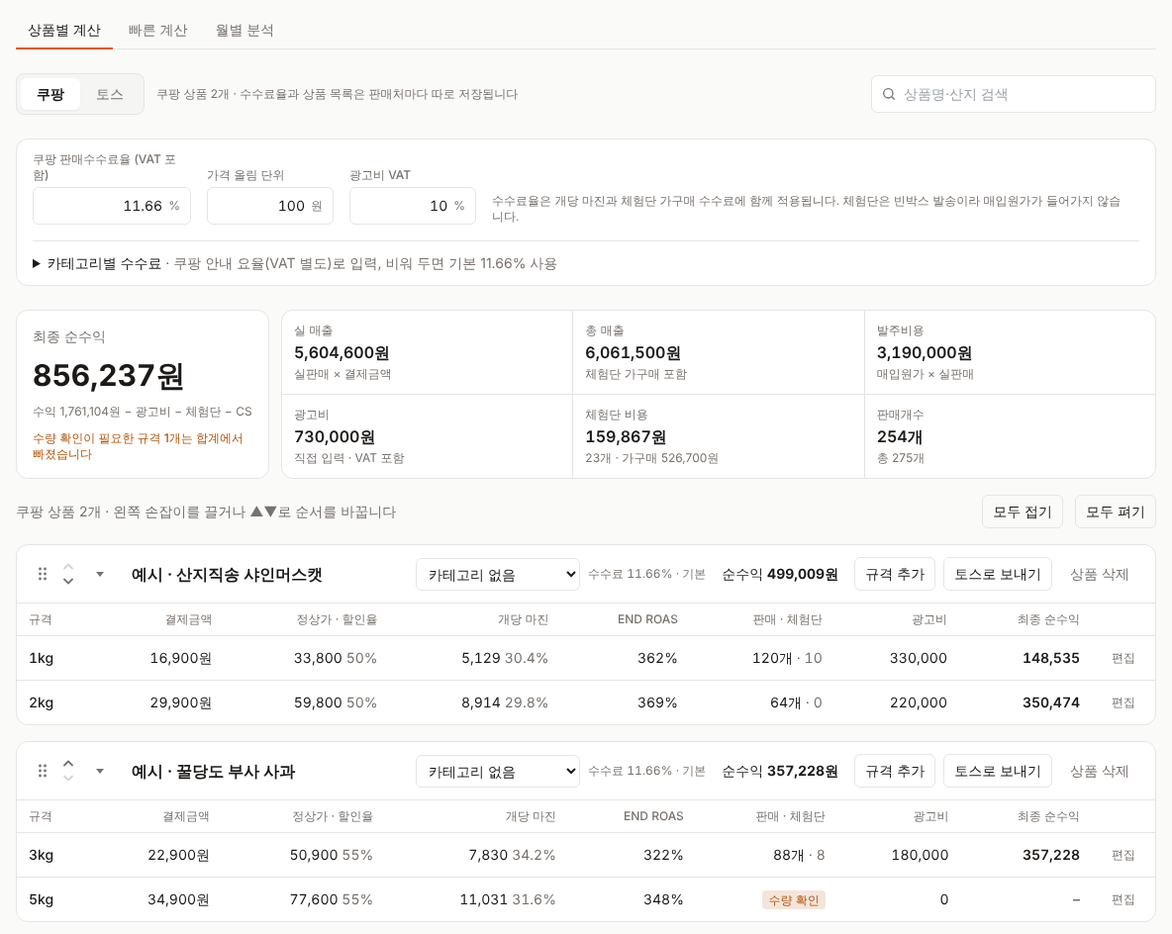
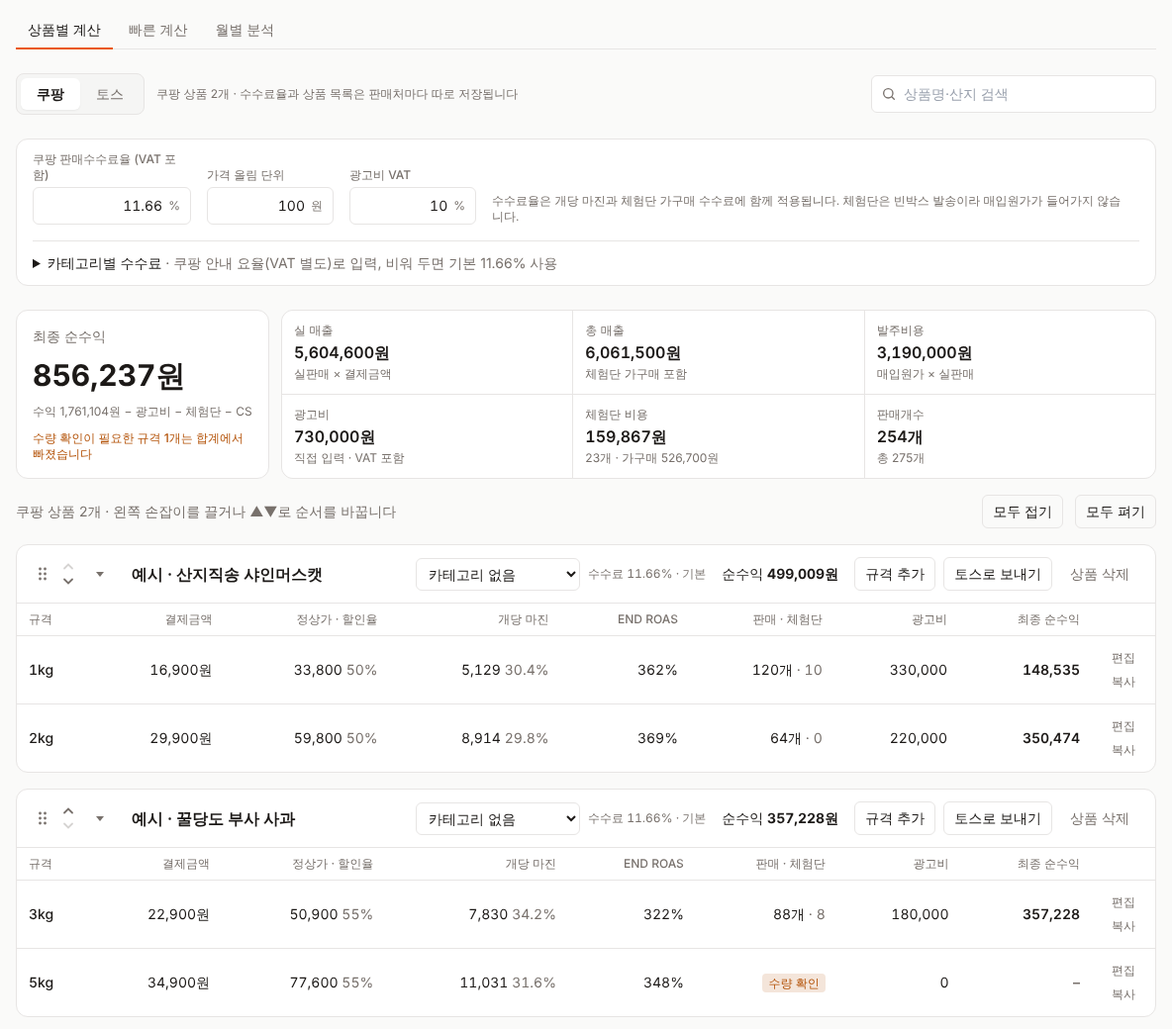
상품 추가 때 상품명 입력, 규격 복사 추가
- 규격 편집 창 맨 위에서 상품명 입력·수정, 상품 추가 시 상품명 칸에 바로 커서
- 이 규격 복사 / 상품 표 행의 복사: 입력값은 그대로, 옵션 ID·실적·가격 변동 기록은 비우고 원본 아래에 추가
- README와 스크린샷 갱신

Claude-Session: https://claude.ai/code/session_01Vrqhj2441wb3p9PaBYYXkv

diff --git a/assets/tailwind.css b/assets/tailwind.css
@@ -1,1 +1,1 @@
-*,:after,:before{--tw-border-spacing-x:0;--tw-border-spacing-y:0;--tw-translate-x:0;--tw-translate-y:0;--tw-rotate:0;--tw-skew-x:0;--tw-skew-y:0;--tw-scale-x:1;--tw-scale-y:1;--tw-pan-x: ;--tw-pan-y: ;--tw-pinch-zoom: ;--tw-scroll-snap-strictness:proximity;--tw-gradient-from-position: ;--tw-gradient-via-position: ;--tw-gradient-to-position: ;--tw-ordinal: ;--tw-slashed-zero: ;--tw-numeric-figure: ;--tw-numeric-spacing: ;--tw-numeric-fraction: ;--tw-ring-inset: ;--tw-ring-offset-width:0px;--tw-ring-offset-color:#fff;--tw-ring-color:rgba(59,130,246,.5);--tw-ring-offset-shadow:0 0 #0000;--tw-ring-shadow:0 0 #0000;--tw-shadow:0 0 #0000;--tw-shadow-colored:0 0 #0000;--tw-blur: ;--tw-brightness: ;--tw-contrast: ;--tw-grayscale: ;--tw-hue-rotate: ;--tw-invert: ;--tw-saturate: ;--tw-sepia: ;--tw-drop-shadow: ;--tw-backdrop-blur: ;--tw-backdrop-brightness: ;--tw-backdrop-contrast: ;--tw-backdrop-grayscale: ;--tw-backdrop-hue-rotate: ;--tw-backdrop-invert: ;--tw-backdrop-opacity: ;--tw-backdrop-saturate: ;--tw-backdrop-sepia: ;--tw-contain-size: ;--tw-contain-layout: ;--tw-contain-paint: ;--tw-contain-style: }::backdrop{--tw-border-spacing-x:0;--tw-border-spacing-y:0;--tw-translate-x:0;--tw-translate-y:0;--tw-rotate:0;--tw-skew-x:0;--tw-skew-y:0;--tw-scale-x:1;--tw-scale-y:1;--tw-pan-x: ;--tw-pan-y: ;--tw-pinch-zoom: ;--tw-scroll-snap-strictness:proximity;--tw-gradient-from-position: ;--tw-gradient-via-position: ;--tw-gradient-to-position: ;--tw-ordinal: ;--tw-slashed-zero: ;--tw-numeric-figure: ;--tw-numeric-spacing: ;--tw-numeric-fraction: ;--tw-ring-inset: ;--tw-ring-offset-width:0px;--tw-ring-offset-color:#fff;--tw-ring-color:rgba(59,130,246,.5);--tw-ring-offset-shadow:0 0 #0000;--tw-ring-shadow:0 0 #0000;--tw-shadow:0 0 #0000;--tw-shadow-colored:0 0 #0000;--tw-blur: ;--tw-brightness: ;--tw-contrast: ;--tw-grayscale: ;--tw-hue-rotate: ;--tw-invert: ;--tw-saturate: ;--tw-sepia: ;--tw-drop-shadow: ;--tw-backdrop-blur: ;--tw-backdrop-brightness: ;--tw-backdrop-contrast: ;--tw-backdrop-grayscale: ;--tw-backdrop-hue-rotate: ;--tw-backdrop-invert: ;--tw-backdrop-opacity: ;--tw-backdrop-saturate: ;--tw-backdrop-sepia: ;--tw-contain-size: ;--tw-contain-layout: ;--tw-contain-paint: ;--tw-contain-style: }/*! tailwindcss v3.4.17 | MIT License | https://tailwindcss.com*/*,:after,:before{box-sizing:border-box;border:0 solid #e5e7eb}:after,:before{--tw-content:""}:host,html{line-height:1.5;-webkit-text-size-adjust:100%;-moz-tab-size:4;-o-tab-size:4;tab-size:4;font-family:var(--font-sans);font-feature-settings:normal;font-variation-settings:normal;-webkit-tap-highlight-color:transparent}body{margin:0;line-height:inherit}hr{height:0;color:inherit;border-top-width:1px}abbr:where([title]){-webkit-text-decoration:underline dotted;text-decoration:underline dotted}h1,h2,h3,h4,h5,h6{font-size:inherit;font-weight:inherit}a{color:inherit;text-decoration:inherit}b,strong{font-weight:bolder}code,kbd,pre,samp{font-family:ui-monospace,SFMono-Regular,Menlo,Monaco,Consolas,Liberation Mono,Courier New,monospace;font-feature-settings:normal;font-variation-settings:normal;font-size:1em}small{font-size:80%}sub,sup{font-size:75%;line-height:0;position:relative;vertical-align:baseline}sub{bottom:-.25em}sup{top:-.5em}table{text-indent:0;border-color:inherit;border-collapse:collapse}button,input,optgroup,select,textarea{font-family:inherit;font-feature-settings:inherit;font-variation-settings:inherit;font-size:100%;font-weight:inherit;line-height:inherit;letter-spacing:inherit;color:inherit;margin:0;padding:0}button,select{text-transform:none}button,input:where([type=button]),input:where([type=reset]),input:where([type=submit]){-webkit-appearance:button;background-color:transparent;background-image:none}:-moz-focusring{outline:auto}:-moz-ui-invalid{box-shadow:none}progress{vertical-align:baseline}::-webkit-inner-spin-button,::-webkit-outer-spin-button{height:auto}[type=search]{-webkit-appearance:textfield;outline-offset:-2px}::-webkit-search-decoration{-webkit-appearance:none}::-webkit-file-upload-button{-webkit-appearance:button;font:inherit}summary{display:list-item}blockquote,dd,dl,figure,h1,h2,h3,h4,h5,h6,hr,p,pre{margin:0}fieldset{margin:0}fieldset,legend{padding:0}menu,ol,ul{list-style:none;margin:0;padding:0}dialog{padding:0}textarea{resize:vertical}input::-moz-placeholder,textarea::-moz-placeholder{opacity:1;color:#9ca3af}input::placeholder,textarea::placeholder{opacity:1;color:#9ca3af}[role=button],button{cursor:pointer}:disabled{cursor:default}audio,canvas,embed,iframe,img,object,svg,video{display:block;vertical-align:middle}img,video{max-width:100%;height:auto}[hidden]:where(:not([hidden=until-found])){display:none}.sr-only{position:absolute;width:1px;height:1px;padding:0;margin:-1px;overflow:hidden;clip:rect(0,0,0,0);white-space:nowrap;border-width:0}.pointer-events-none{pointer-events:none}.fixed{position:fixed}.absolute{position:absolute}.relative{position:relative}.sticky{position:sticky}.inset-0{inset:0}.inset-x-0{left:0;right:0}.inset-y-0{top:0;bottom:0}.left-0{left:0}.left-1{left:.25rem}.left-2\.5{left:.625rem}.right-0{right:0}.right-1\.5{right:.375rem}.top-0{top:0}.top-1\/2{top:50%}.z-dialog{z-index:50}.z-drawer{z-index:40}.z-header{z-index:10}.col-span-2{grid-column:span 2/span 2}.m-auto{margin:auto}.-mx-1{margin-left:-.25rem;margin-right:-.25rem}.mx-2{margin-left:.5rem;margin-right:.5rem}.mx-auto{margin-left:auto;margin-right:auto}.-mb-px{margin-bottom:-1px}.mb-1{margin-bottom:.25rem}.mb-2{margin-bottom:.5rem}.ml-auto{margin-left:auto}.mt-0\.5{margin-top:.125rem}.mt-1{margin-top:.25rem}.mt-2{margin-top:.5rem}.mt-3{margin-top:.75rem}.flex{display:flex}.inline-flex{display:inline-flex}.table{display:table}.grid{display:grid}.hidden{display:none}.size-3{width:.75rem;height:.75rem}.size-4{width:1rem;height:1rem}.size-8{width:2rem;height:2rem}.size-9{width:2.25rem;height:2.25rem}.h-10{height:2.5rem}.h-2{height:.5rem}.h-4{height:1rem}.h-8{height:2rem}.h-full{height:100%}.max-h-\[calc\(100dvh-2rem\)\]{max-height:calc(100dvh - 2rem)}.min-h-dvh{min-height:100dvh}.w-0\.5{width:.125rem}.w-1{width:.25rem}.w-14{width:3.5rem}.w-2\.5{width:.625rem}.w-20{width:5rem}.w-28{width:7rem}.w-3{width:.75rem}.w-32{width:8rem}.w-36{width:9rem}.w-40{width:10rem}.w-5{width:1.25rem}.w-52{width:13rem}.w-56{width:14rem}.w-6{width:1.5rem}.w-\[calc\(100\%-2rem\)\]{width:calc(100% - 2rem)}.w-full{width:100%}.w-px{width:1px}.min-w-0{min-width:0}.min-w-\[560px\]{min-width:560px}.min-w-\[640px\]{min-width:640px}.min-w-\[760px\]{min-width:760px}.min-w-\[820px\]{min-width:820px}.min-w-\[980px\]{min-width:980px}.max-w-4xl{max-width:56rem}.max-w-6xl{max-width:72rem}.max-w-\[10rem\]{max-width:10rem}.max-w-\[14rem\]{max-width:14rem}.max-w-\[20rem\]{max-width:20rem}.max-w-full{max-width:100%}.max-w-md{max-width:28rem}.max-w-sm{max-width:24rem}.flex-1{flex:1 1 0%}.shrink-0{flex-shrink:0}.basis-40{flex-basis:10rem}.basis-56{flex-basis:14rem}.basis-60{flex-basis:15rem}.basis-64{flex-basis:16rem}.basis-72{flex-basis:18rem}.basis-full{flex-basis:100%}.-translate-x-1\/2{--tw-translate-x:-50%}.-translate-x-1\/2,.-translate-y-1\/2{transform:translate(var(--tw-translate-x),var(--tw-translate-y)) rotate(var(--tw-rotate)) skewX(var(--tw-skew-x)) skewY(var(--tw-skew-y)) scaleX(var(--tw-scale-x)) scaleY(var(--tw-scale-y))}.-translate-y-1\/2{--tw-translate-y:-50%}.rotate-90{--tw-rotate:90deg;transform:translate(var(--tw-translate-x),var(--tw-translate-y)) rotate(var(--tw-rotate)) skewX(var(--tw-skew-x)) skewY(var(--tw-skew-y)) scaleX(var(--tw-scale-x)) scaleY(var(--tw-scale-y))}.cursor-col-resize{cursor:col-resize}.cursor-default{cursor:default}.cursor-grab{cursor:grab}.cursor-pointer{cursor:pointer}.list-disc{list-style-type:disc}.grid-cols-2{grid-template-columns:repeat(2,minmax(0,1fr))}.grid-cols-\[minmax\(0\2c 1fr\)_auto\]{grid-template-columns:minmax(0,1fr) auto}.grid-cols-\[repeat\(auto-fill\2c minmax\(8\.5rem\2c 1fr\)\)\]{grid-template-columns:repeat(auto-fill,minmax(8.5rem,1fr))}.flex-col{flex-direction:column}.flex-wrap{flex-wrap:wrap}.items-start{align-items:flex-start}.items-end{align-items:flex-end}.items-center{align-items:center}.items-baseline{align-items:baseline}.justify-end{justify-content:flex-end}.justify-center{justify-content:center}.justify-between{justify-content:space-between}.gap-0\.5{gap:.125rem}.gap-1{gap:.25rem}.gap-1\.5{gap:.375rem}.gap-2{gap:.5rem}.gap-3{gap:.75rem}.gap-4{gap:1rem}.gap-6{gap:1.5rem}.gap-px{gap:1px}.gap-x-2{-moz-column-gap:.5rem;column-gap:.5rem}.gap-x-3{-moz-column-gap:.75rem;column-gap:.75rem}.gap-x-4{-moz-column-gap:1rem;column-gap:1rem}.gap-x-6{-moz-column-gap:1.5rem;column-gap:1.5rem}.gap-y-1{row-gap:.25rem}.gap-y-2{row-gap:.5rem}.gap-y-3{row-gap:.75rem}.divide-y>:not([hidden])~:not([hidden]){--tw-divide-y-reverse:0;border-top-width:calc(1px*(1 - var(--tw-divide-y-reverse)));border-bottom-width:calc(1px*var(--tw-divide-y-reverse))}.divide-line>:not([hidden])~:not([hidden]){--tw-divide-opacity:1;border-color:rgb(var(--line)/var(--tw-divide-opacity,1))}.self-start{align-self:flex-start}.overflow-hidden{overflow:hidden}.overflow-x-auto{overflow-x:auto}.overflow-y-auto{overflow-y:auto}.truncate{overflow:hidden;text-overflow:ellipsis}.truncate,.whitespace-nowrap{white-space:nowrap}.whitespace-pre-line{white-space:pre-line}.text-balance{text-wrap:balance}.text-pretty{text-wrap:pretty}.rounded{border-radius:.25rem}.rounded-full{border-radius:9999px}.rounded-lg{border-radius:.5rem}.rounded-md{border-radius:.375rem}.rounded-xl{border-radius:.75rem}.rounded-b{border-bottom-right-radius:.25rem;border-bottom-left-radius:.25rem}.rounded-t{border-top-left-radius:.25rem;border-top-right-radius:.25rem}.border{border-width:1px}.border-2{border-width:2px}.border-b{border-bottom-width:1px}.border-b-2{border-bottom-width:2px}.border-l{border-left-width:1px}.border-l-2{border-left-width:2px}.border-t{border-top-width:1px}.border-dashed{border-style:dashed}.border-accent{--tw-border-opacity:1;border-color:rgb(var(--accent)/var(--tw-border-opacity,1))}.border-accent\/40{border-color:rgb(var(--accent)/.4)}.border-accent\/50{border-color:rgb(var(--accent)/.5)}.border-current{border-color:currentColor}.border-fg\/40{border-color:rgb(var(--fg)/.4)}.border-line{--tw-border-opacity:1;border-color:rgb(var(--line)/var(--tw-border-opacity,1))}.border-neg{--tw-border-opacity:1;border-color:rgb(var(--neg)/var(--tw-border-opacity,1))}.border-surface{--tw-border-opacity:1;border-color:rgb(var(--surface)/var(--tw-border-opacity,1))}.border-transparent{border-color:transparent}.border-warn{--tw-border-opacity:1;border-color:rgb(var(--warn)/var(--tw-border-opacity,1))}.border-warn\/40{border-color:rgb(var(--warn)/.4)}.bg-accent{--tw-bg-opacity:1;background-color:rgb(var(--accent)/var(--tw-bg-opacity,1))}.bg-accent\/10{background-color:rgb(var(--accent)/.1)}.bg-accent\/15{background-color:rgb(var(--accent)/.15)}.bg-accent\/5{background-color:rgb(var(--accent)/.05)}.bg-black\/40{background-color:rgba(0,0,0,.4)}.bg-fg{background-color:rgb(var(--fg)/var(--tw-bg-opacity,1))}.bg-fg,.bg-line{--tw-bg-opacity:1}.bg-line{background-color:rgb(var(--line)/var(--tw-bg-opacity,1))}.bg-muted{--tw-bg-opacity:1;background-color:rgb(var(--muted)/var(--tw-bg-opacity,1))}.bg-neg{--tw-bg-opacity:1;background-color:rgb(var(--neg)/var(--tw-bg-opacity,1))}.bg-neg\/10{background-color:rgb(var(--neg)/.1)}.bg-pos\/10{background-color:rgb(var(--pos)/.1)}.bg-pos\/15{background-color:rgb(var(--pos)/.15)}.bg-soft{--tw-bg-opacity:1;background-color:rgb(var(--soft)/var(--tw-bg-opacity,1))}.bg-soft\/60{background-color:rgb(var(--soft)/.6)}.bg-surface{--tw-bg-opacity:1;background-color:rgb(var(--surface)/var(--tw-bg-opacity,1))}.bg-transparent{background-color:transparent}.bg-warn\/10{background-color:rgb(var(--warn)/.1)}.bg-warn\/15{background-color:rgb(var(--warn)/.15)}.p-0{padding:0}.p-1{padding:.25rem}.p-3{padding:.75rem}.p-4{padding:1rem}.p-5{padding:1.25rem}.px-1{padding-left:.25rem;padding-right:.25rem}.px-1\.5{padding-left:.375rem;padding-right:.375rem}.px-2{padding-left:.5rem;padding-right:.5rem}.px-2\.5{padding-left:.625rem;padding-right:.625rem}.px-3{padding-left:.75rem;padding-right:.75rem}.px-4{padding-left:1rem;padding-right:1rem}.px-5{padding-left:1.25rem;padding-right:1.25rem}.px-px{padding-left:1px;padding-right:1px}.py-0\.5{padding-top:.125rem;padding-bottom:.125rem}.py-1{padding-top:.25rem;padding-bottom:.25rem}.py-1\.5{padding-top:.375rem;padding-bottom:.375rem}.py-10{padding-top:2.5rem;padding-bottom:2.5rem}.py-12{padding-top:3rem;padding-bottom:3rem}.py-2{padding-top:.5rem;padding-bottom:.5rem}.py-3{padding-top:.75rem;padding-bottom:.75rem}.py-4{padding-top:1rem;padding-bottom:1rem}.py-6{padding-top:1.5rem;padding-bottom:1.5rem}.pb-2{padding-bottom:.5rem}.pl-1\.5{padding-left:.375rem}.pl-2{padding-left:.5rem}.pl-5{padding-left:1.25rem}.pl-8{padding-left:2rem}.pr-1{padding-right:.25rem}.pr-8{padding-right:2rem}.pt-3{padding-top:.75rem}.pt-4{padding-top:1rem}.pt-5{padding-top:1.25rem}.text-left{text-align:left}.text-center{text-align:center}.text-right{text-align:right}.align-top{vertical-align:top}.text-3xl{font-size:1.875rem;line-height:2.25rem}.text-\[11px\]{font-size:11px}.text-base{font-size:1rem;line-height:1.5rem}.text-lg{font-size:1.125rem;line-height:1.75rem}.text-sm{font-size:.875rem;line-height:1.25rem}.text-xs{font-size:.75rem;line-height:1rem}.font-bold{font-weight:700}.font-medium{font-weight:500}.font-normal{font-weight:400}.font-semibold{font-weight:600}.tabular-nums{--tw-numeric-spacing:tabular-nums;font-variant-numeric:var(--tw-ordinal) var(--tw-slashed-zero) var(--tw-numeric-figure) var(--tw-numeric-spacing) var(--tw-numeric-fraction)}.text-accent{--tw-text-opacity:1;color:rgb(var(--accent)/var(--tw-text-opacity,1))}.text-accent-fg{--tw-text-opacity:1;color:rgb(var(--accent-fg)/var(--tw-text-opacity,1))}.text-fg{--tw-text-opacity:1;color:rgb(var(--fg)/var(--tw-text-opacity,1))}.text-muted{--tw-text-opacity:1;color:rgb(var(--muted)/var(--tw-text-opacity,1))}.text-neg{--tw-text-opacity:1;color:rgb(var(--neg)/var(--tw-text-opacity,1))}.text-pos{--tw-text-opacity:1;color:rgb(var(--pos)/var(--tw-text-opacity,1))}.text-warn{--tw-text-opacity:1;color:rgb(var(--warn)/var(--tw-text-opacity,1))}.text-white{--tw-text-opacity:1;color:rgb(255 255 255/var(--tw-text-opacity,1))}.underline{text-decoration-line:underline}.accent-\[rgb\(var\(--accent\)\)\]{accent-color:rgb(var(--accent))}.opacity-50{opacity:.5}.shadow-sm{--tw-shadow:0 1px 2px 0 rgba(0,0,0,.05);--tw-shadow-colored:0 1px 2px 0 var(--tw-shadow-color)}.shadow-sm,.shadow-xl{box-shadow:var(--tw-ring-offset-shadow,0 0 #0000),var(--tw-ring-shadow,0 0 #0000),var(--tw-shadow)}.shadow-xl{--tw-shadow:0 20px 25px -5px rgba(0,0,0,.1),0 8px 10px -6px rgba(0,0,0,.1);--tw-shadow-colored:0 20px 25px -5px var(--tw-shadow-color),0 8px 10px -6px var(--tw-shadow-color)}.outline-none{outline:2px solid transparent;outline-offset:2px}.outline{outline-style:solid}.ring-2{--tw-ring-offset-shadow:var(--tw-ring-inset) 0 0 0 var(--tw-ring-offset-width) var(--tw-ring-offset-color);--tw-ring-shadow:var(--tw-ring-inset) 0 0 0 calc(2px + var(--tw-ring-offset-width)) var(--tw-ring-color);box-shadow:var(--tw-ring-offset-shadow),var(--tw-ring-shadow),var(--tw-shadow,0 0 #0000)}.ring-accent\/30{--tw-ring-color:rgb(var(--accent)/0.3)}.filter{filter:var(--tw-blur) var(--tw-brightness) var(--tw-contrast) var(--tw-grayscale) var(--tw-hue-rotate) var(--tw-invert) var(--tw-saturate) var(--tw-sepia) var(--tw-drop-shadow)}.first\:border-t-0:first-child{border-top-width:0}.focus-within\:border-accent:focus-within{--tw-border-opacity:1;border-color:rgb(var(--accent)/var(--tw-border-opacity,1))}.hover\:bg-accent\/10:hover{background-color:rgb(var(--accent)/.1)}.hover\:bg-accent\/90:hover{background-color:rgb(var(--accent)/.9)}.hover\:bg-line:hover{--tw-bg-opacity:1;background-color:rgb(var(--line)/var(--tw-bg-opacity,1))}.hover\:bg-neg\/90:hover{background-color:rgb(var(--neg)/.9)}.hover\:bg-soft:hover{--tw-bg-opacity:1;background-color:rgb(var(--soft)/var(--tw-bg-opacity,1))}.hover\:bg-warn\/15:hover{background-color:rgb(var(--warn)/.15)}.hover\:text-accent:hover{--tw-text-opacity:1;color:rgb(var(--accent)/var(--tw-text-opacity,1))}.hover\:text-fg:hover{--tw-text-opacity:1;color:rgb(var(--fg)/var(--tw-text-opacity,1))}.hover\:text-neg:hover{--tw-text-opacity:1;color:rgb(var(--neg)/var(--tw-text-opacity,1))}.focus\:border-accent:focus{--tw-border-opacity:1;border-color:rgb(var(--accent)/var(--tw-border-opacity,1))}.focus\:bg-soft:focus{--tw-bg-opacity:1;background-color:rgb(var(--soft)/var(--tw-bg-opacity,1))}.active\:cursor-grabbing:active{cursor:grabbing}.disabled\:border-line:disabled{--tw-border-opacity:1;border-color:rgb(var(--line)/var(--tw-border-opacity,1))}.disabled\:bg-transparent:disabled{background-color:transparent}.disabled\:text-muted:disabled{--tw-text-opacity:1;color:rgb(var(--muted)/var(--tw-text-opacity,1))}.disabled\:opacity-30:disabled{opacity:.3}.disabled\:opacity-50:disabled{opacity:.5}.group:hover .group-hover\:bg-accent{--tw-bg-opacity:1;background-color:rgb(var(--accent)/var(--tw-bg-opacity,1))}.group:focus-visible .group-focus-visible\:bg-accent{--tw-bg-opacity:1;background-color:rgb(var(--accent)/var(--tw-bg-opacity,1))}@media (min-width:640px){.sm\:col-span-1{grid-column:span 1/span 1}.sm\:w-72{width:18rem}.sm\:grid-cols-3{grid-template-columns:repeat(3,minmax(0,1fr))}.sm\:grid-cols-4{grid-template-columns:repeat(4,minmax(0,1fr))}}@media (min-width:768px){.md\:col-span-2{grid-column:span 2/span 2}.md\:grid-cols-2{grid-template-columns:repeat(2,minmax(0,1fr))}.md\:grid-cols-\[minmax\(0\2c 1fr\)_minmax\(0\2c 20rem\)\]{grid-template-columns:minmax(0,1fr) minmax(0,20rem)}}@media (min-width:1024px){.lg\:sticky{position:sticky}.lg\:top-6{top:1.5rem}.lg\:z-auto{z-index:auto}.lg\:my-6{margin-top:1.5rem;margin-bottom:1.5rem}.lg\:block{display:block}.lg\:hidden{display:none}.lg\:h-\[calc\(100dvh-3rem\)\]{height:calc(100dvh - 3rem)}.lg\:w-\[var\(--side-w\)\]{width:var(--side-w)}.lg\:max-w-\[var\(--group-max\)\]{max-width:var(--group-max)}.lg\:max-w-none{max-width:none}.lg\:shrink-0{flex-shrink:0}.lg\:grid-cols-6{grid-template-columns:repeat(6,minmax(0,1fr))}.lg\:grid-cols-\[minmax\(0\2c 16rem\)_minmax\(0\2c 1fr\)\]{grid-template-columns:minmax(0,16rem) minmax(0,1fr)}.lg\:overflow-hidden{overflow:hidden}.lg\:rounded-xl{border-radius:.75rem}.lg\:border{border-width:1px}.lg\:shadow-sm{--tw-shadow:0 1px 2px 0 rgba(0,0,0,.05);--tw-shadow-colored:0 1px 2px 0 var(--tw-shadow-color);box-shadow:var(--tw-ring-offset-shadow,0 0 #0000),var(--tw-ring-shadow,0 0 #0000),var(--tw-shadow)}}.\[\&\>td\]\:px-2>td{padding-left:.5rem;padding-right:.5rem}.\[\&\>td\]\:px-3>td{padding-left:.75rem;padding-right:.75rem}.\[\&\>td\]\:px-4>td{padding-left:1rem;padding-right:1rem}.\[\&\>td\]\:py-2>td{padding-top:.5rem;padding-bottom:.5rem}.\[\&\>td\]\:py-2\.5>td{padding-top:.625rem;padding-bottom:.625rem}.\[\&\>th\]\:px-2>th{padding-left:.5rem;padding-right:.5rem}.\[\&\>th\]\:px-3>th{padding-left:.75rem;padding-right:.75rem}.\[\&\>th\]\:py-2>th{padding-top:.5rem;padding-bottom:.5rem}.\[\&\>th\]\:font-medium>th{font-weight:500}
+*,:after,:before{--tw-border-spacing-x:0;--tw-border-spacing-y:0;--tw-translate-x:0;--tw-translate-y:0;--tw-rotate:0;--tw-skew-x:0;--tw-skew-y:0;--tw-scale-x:1;--tw-scale-y:1;--tw-pan-x: ;--tw-pan-y: ;--tw-pinch-zoom: ;--tw-scroll-snap-strictness:proximity;--tw-gradient-from-position: ;--tw-gradient-via-position: ;--tw-gradient-to-position: ;--tw-ordinal: ;--tw-slashed-zero: ;--tw-numeric-figure: ;--tw-numeric-spacing: ;--tw-numeric-fraction: ;--tw-ring-inset: ;--tw-ring-offset-width:0px;--tw-ring-offset-color:#fff;--tw-ring-color:rgba(59,130,246,.5);--tw-ring-offset-shadow:0 0 #0000;--tw-ring-shadow:0 0 #0000;--tw-shadow:0 0 #0000;--tw-shadow-colored:0 0 #0000;--tw-blur: ;--tw-brightness: ;--tw-contrast: ;--tw-grayscale: ;--tw-hue-rotate: ;--tw-invert: ;--tw-saturate: ;--tw-sepia: ;--tw-drop-shadow: ;--tw-backdrop-blur: ;--tw-backdrop-brightness: ;--tw-backdrop-contrast: ;--tw-backdrop-grayscale: ;--tw-backdrop-hue-rotate: ;--tw-backdrop-invert: ;--tw-backdrop-opacity: ;--tw-backdrop-saturate: ;--tw-backdrop-sepia: ;--tw-contain-size: ;--tw-contain-layout: ;--tw-contain-paint: ;--tw-contain-style: }::backdrop{--tw-border-spacing-x:0;--tw-border-spacing-y:0;--tw-translate-x:0;--tw-translate-y:0;--tw-rotate:0;--tw-skew-x:0;--tw-skew-y:0;--tw-scale-x:1;--tw-scale-y:1;--tw-pan-x: ;--tw-pan-y: ;--tw-pinch-zoom: ;--tw-scroll-snap-strictness:proximity;--tw-gradient-from-position: ;--tw-gradient-via-position: ;--tw-gradient-to-position: ;--tw-ordinal: ;--tw-slashed-zero: ;--tw-numeric-figure: ;--tw-numeric-spacing: ;--tw-numeric-fraction: ;--tw-ring-inset: ;--tw-ring-offset-width:0px;--tw-ring-offset-color:#fff;--tw-ring-color:rgba(59,130,246,.5);--tw-ring-offset-shadow:0 0 #0000;--tw-ring-shadow:0 0 #0000;--tw-shadow:0 0 #0000;--tw-shadow-colored:0 0 #0000;--tw-blur: ;--tw-brightness: ;--tw-contrast: ;--tw-grayscale: ;--tw-hue-rotate: ;--tw-invert: ;--tw-saturate: ;--tw-sepia: ;--tw-drop-shadow: ;--tw-backdrop-blur: ;--tw-backdrop-brightness: ;--tw-backdrop-contrast: ;--tw-backdrop-grayscale: ;--tw-backdrop-hue-rotate: ;--tw-backdrop-invert: ;--tw-backdrop-opacity: ;--tw-backdrop-saturate: ;--tw-backdrop-sepia: ;--tw-contain-size: ;--tw-contain-layout: ;--tw-contain-paint: ;--tw-contain-style: }/*! tailwindcss v3.4.17 | MIT License | https://tailwindcss.com*/*,:after,:before{box-sizing:border-box;border:0 solid #e5e7eb}:after,:before{--tw-content:""}:host,html{line-height:1.5;-webkit-text-size-adjust:100%;-moz-tab-size:4;-o-tab-size:4;tab-size:4;font-family:var(--font-sans);font-feature-settings:normal;font-variation-settings:normal;-webkit-tap-highlight-color:transparent}body{margin:0;line-height:inherit}hr{height:0;color:inherit;border-top-width:1px}abbr:where([title]){-webkit-text-decoration:underline dotted;text-decoration:underline dotted}h1,h2,h3,h4,h5,h6{font-size:inherit;font-weight:inherit}a{color:inherit;text-decoration:inherit}b,strong{font-weight:bolder}code,kbd,pre,samp{font-family:ui-monospace,SFMono-Regular,Menlo,Monaco,Consolas,Liberation Mono,Courier New,monospace;font-feature-settings:normal;font-variation-settings:normal;font-size:1em}small{font-size:80%}sub,sup{font-size:75%;line-height:0;position:relative;vertical-align:baseline}sub{bottom:-.25em}sup{top:-.5em}table{text-indent:0;border-color:inherit;border-collapse:collapse}button,input,optgroup,select,textarea{font-family:inherit;font-feature-settings:inherit;font-variation-settings:inherit;font-size:100%;font-weight:inherit;line-height:inherit;letter-spacing:inherit;color:inherit;margin:0;padding:0}button,select{text-transform:none}button,input:where([type=button]),input:where([type=reset]),input:where([type=submit]){-webkit-appearance:button;background-color:transparent;background-image:none}:-moz-focusring{outline:auto}:-moz-ui-invalid{box-shadow:none}progress{vertical-align:baseline}::-webkit-inner-spin-button,::-webkit-outer-spin-button{height:auto}[type=search]{-webkit-appearance:textfield;outline-offset:-2px}::-webkit-search-decoration{-webkit-appearance:none}::-webkit-file-upload-button{-webkit-appearance:button;font:inherit}summary{display:list-item}blockquote,dd,dl,figure,h1,h2,h3,h4,h5,h6,hr,p,pre{margin:0}fieldset{margin:0}fieldset,legend{padding:0}menu,ol,ul{list-style:none;margin:0;padding:0}dialog{padding:0}textarea{resize:vertical}input::-moz-placeholder,textarea::-moz-placeholder{opacity:1;color:#9ca3af}input::placeholder,textarea::placeholder{opacity:1;color:#9ca3af}[role=button],button{cursor:pointer}:disabled{cursor:default}audio,canvas,embed,iframe,img,object,svg,video{display:block;vertical-align:middle}img,video{max-width:100%;height:auto}[hidden]:where(:not([hidden=until-found])){display:none}.sr-only{position:absolute;width:1px;height:1px;padding:0;margin:-1px;overflow:hidden;clip:rect(0,0,0,0);white-space:nowrap;border-width:0}.pointer-events-none{pointer-events:none}.fixed{position:fixed}.absolute{position:absolute}.relative{position:relative}.sticky{position:sticky}.inset-0{inset:0}.inset-x-0{left:0;right:0}.inset-y-0{top:0;bottom:0}.left-0{left:0}.left-1{left:.25rem}.left-2\.5{left:.625rem}.right-0{right:0}.right-1\.5{right:.375rem}.top-0{top:0}.top-1\/2{top:50%}.z-dialog{z-index:50}.z-drawer{z-index:40}.z-header{z-index:10}.col-span-2{grid-column:span 2/span 2}.m-auto{margin:auto}.-mx-1{margin-left:-.25rem;margin-right:-.25rem}.mx-2{margin-left:.5rem;margin-right:.5rem}.mx-auto{margin-left:auto;margin-right:auto}.-mb-px{margin-bottom:-1px}.mb-1{margin-bottom:.25rem}.mb-2{margin-bottom:.5rem}.ml-auto{margin-left:auto}.mt-0\.5{margin-top:.125rem}.mt-1{margin-top:.25rem}.mt-2{margin-top:.5rem}.mt-3{margin-top:.75rem}.flex{display:flex}.inline-flex{display:inline-flex}.table{display:table}.grid{display:grid}.hidden{display:none}.size-3{width:.75rem;height:.75rem}.size-4{width:1rem;height:1rem}.size-8{width:2rem;height:2rem}.size-9{width:2.25rem;height:2.25rem}.h-10{height:2.5rem}.h-2{height:.5rem}.h-4{height:1rem}.h-8{height:2rem}.h-full{height:100%}.max-h-\[calc\(100dvh-2rem\)\]{max-height:calc(100dvh - 2rem)}.min-h-dvh{min-height:100dvh}.w-0\.5{width:.125rem}.w-1{width:.25rem}.w-14{width:3.5rem}.w-2\.5{width:.625rem}.w-20{width:5rem}.w-28{width:7rem}.w-3{width:.75rem}.w-32{width:8rem}.w-36{width:9rem}.w-40{width:10rem}.w-5{width:1.25rem}.w-52{width:13rem}.w-56{width:14rem}.w-6{width:1.5rem}.w-\[calc\(100\%-2rem\)\]{width:calc(100% - 2rem)}.w-full{width:100%}.w-px{width:1px}.min-w-0{min-width:0}.min-w-\[560px\]{min-width:560px}.min-w-\[640px\]{min-width:640px}.min-w-\[760px\]{min-width:760px}.min-w-\[820px\]{min-width:820px}.min-w-\[980px\]{min-width:980px}.max-w-4xl{max-width:56rem}.max-w-6xl{max-width:72rem}.max-w-\[10rem\]{max-width:10rem}.max-w-\[14rem\]{max-width:14rem}.max-w-\[20rem\]{max-width:20rem}.max-w-full{max-width:100%}.max-w-md{max-width:28rem}.max-w-sm{max-width:24rem}.flex-1{flex:1 1 0%}.shrink-0{flex-shrink:0}.basis-40{flex-basis:10rem}.basis-56{flex-basis:14rem}.basis-60{flex-basis:15rem}.basis-64{flex-basis:16rem}.basis-72{flex-basis:18rem}.basis-full{flex-basis:100%}.-translate-x-1\/2{--tw-translate-x:-50%}.-translate-x-1\/2,.-translate-y-1\/2{transform:translate(var(--tw-translate-x),var(--tw-translate-y)) rotate(var(--tw-rotate)) skewX(var(--tw-skew-x)) skewY(var(--tw-skew-y)) scaleX(var(--tw-scale-x)) scaleY(var(--tw-scale-y))}.-translate-y-1\/2{--tw-translate-y:-50%}.rotate-90{--tw-rotate:90deg;transform:translate(var(--tw-translate-x),var(--tw-translate-y)) rotate(var(--tw-rotate)) skewX(var(--tw-skew-x)) skewY(var(--tw-skew-y)) scaleX(var(--tw-scale-x)) scaleY(var(--tw-scale-y))}.cursor-col-resize{cursor:col-resize}.cursor-default{cursor:default}.cursor-grab{cursor:grab}.cursor-pointer{cursor:pointer}.list-disc{list-style-type:disc}.grid-cols-2{grid-template-columns:repeat(2,minmax(0,1fr))}.grid-cols-\[minmax\(0\2c 1fr\)_auto\]{grid-template-columns:minmax(0,1fr) auto}.grid-cols-\[repeat\(auto-fill\2c minmax\(8\.5rem\2c 1fr\)\)\]{grid-template-columns:repeat(auto-fill,minmax(8.5rem,1fr))}.flex-col{flex-direction:column}.flex-wrap{flex-wrap:wrap}.items-start{align-items:flex-start}.items-end{align-items:flex-end}.items-center{align-items:center}.items-baseline{align-items:baseline}.justify-end{justify-content:flex-end}.justify-center{justify-content:center}.justify-between{justify-content:space-between}.gap-0\.5{gap:.125rem}.gap-1{gap:.25rem}.gap-1\.5{gap:.375rem}.gap-2{gap:.5rem}.gap-3{gap:.75rem}.gap-4{gap:1rem}.gap-6{gap:1.5rem}.gap-px{gap:1px}.gap-x-2{-moz-column-gap:.5rem;column-gap:.5rem}.gap-x-3{-moz-column-gap:.75rem;column-gap:.75rem}.gap-x-4{-moz-column-gap:1rem;column-gap:1rem}.gap-x-6{-moz-column-gap:1.5rem;column-gap:1.5rem}.gap-y-1{row-gap:.25rem}.gap-y-2{row-gap:.5rem}.gap-y-3{row-gap:.75rem}.divide-y>:not([hidden])~:not([hidden]){--tw-divide-y-reverse:0;border-top-width:calc(1px*(1 - var(--tw-divide-y-reverse)));border-bottom-width:calc(1px*var(--tw-divide-y-reverse))}.divide-line>:not([hidden])~:not([hidden]){--tw-divide-opacity:1;border-color:rgb(var(--line)/var(--tw-divide-opacity,1))}.self-start{align-self:flex-start}.overflow-hidden{overflow:hidden}.overflow-x-auto{overflow-x:auto}.overflow-y-auto{overflow-y:auto}.truncate{overflow:hidden;text-overflow:ellipsis}.truncate,.whitespace-nowrap{white-space:nowrap}.whitespace-pre-line{white-space:pre-line}.text-balance{text-wrap:balance}.text-pretty{text-wrap:pretty}.rounded{border-radius:.25rem}.rounded-full{border-radius:9999px}.rounded-lg{border-radius:.5rem}.rounded-md{border-radius:.375rem}.rounded-xl{border-radius:.75rem}.rounded-b{border-bottom-right-radius:.25rem;border-bottom-left-radius:.25rem}.rounded-t{border-top-left-radius:.25rem;border-top-right-radius:.25rem}.border{border-width:1px}.border-2{border-width:2px}.border-b{border-bottom-width:1px}.border-b-2{border-bottom-width:2px}.border-l{border-left-width:1px}.border-l-2{border-left-width:2px}.border-t{border-top-width:1px}.border-dashed{border-style:dashed}.border-accent{--tw-border-opacity:1;border-color:rgb(var(--accent)/var(--tw-border-opacity,1))}.border-accent\/40{border-color:rgb(var(--accent)/.4)}.border-accent\/50{border-color:rgb(var(--accent)/.5)}.border-current{border-color:currentColor}.border-fg\/40{border-color:rgb(var(--fg)/.4)}.border-line{--tw-border-opacity:1;border-color:rgb(var(--line)/var(--tw-border-opacity,1))}.border-neg{--tw-border-opacity:1;border-color:rgb(var(--neg)/var(--tw-border-opacity,1))}.border-surface{--tw-border-opacity:1;border-color:rgb(var(--surface)/var(--tw-border-opacity,1))}.border-transparent{border-color:transparent}.border-warn{--tw-border-opacity:1;border-color:rgb(var(--warn)/var(--tw-border-opacity,1))}.border-warn\/40{border-color:rgb(var(--warn)/.4)}.bg-accent{--tw-bg-opacity:1;background-color:rgb(var(--accent)/var(--tw-bg-opacity,1))}.bg-accent\/10{background-color:rgb(var(--accent)/.1)}.bg-accent\/15{background-color:rgb(var(--accent)/.15)}.bg-accent\/5{background-color:rgb(var(--accent)/.05)}.bg-black\/40{background-color:rgba(0,0,0,.4)}.bg-fg{background-color:rgb(var(--fg)/var(--tw-bg-opacity,1))}.bg-fg,.bg-line{--tw-bg-opacity:1}.bg-line{background-color:rgb(var(--line)/var(--tw-bg-opacity,1))}.bg-muted{--tw-bg-opacity:1;background-color:rgb(var(--muted)/var(--tw-bg-opacity,1))}.bg-neg{--tw-bg-opacity:1;background-color:rgb(var(--neg)/var(--tw-bg-opacity,1))}.bg-neg\/10{background-color:rgb(var(--neg)/.1)}.bg-pos\/10{background-color:rgb(var(--pos)/.1)}.bg-pos\/15{background-color:rgb(var(--pos)/.15)}.bg-soft{--tw-bg-opacity:1;background-color:rgb(var(--soft)/var(--tw-bg-opacity,1))}.bg-soft\/60{background-color:rgb(var(--soft)/.6)}.bg-surface{--tw-bg-opacity:1;background-color:rgb(var(--surface)/var(--tw-bg-opacity,1))}.bg-transparent{background-color:transparent}.bg-warn\/10{background-color:rgb(var(--warn)/.1)}.bg-warn\/15{background-color:rgb(var(--warn)/.15)}.p-0{padding:0}.p-1{padding:.25rem}.p-3{padding:.75rem}.p-4{padding:1rem}.p-5{padding:1.25rem}.px-1{padding-left:.25rem;padding-right:.25rem}.px-1\.5{padding-left:.375rem;padding-right:.375rem}.px-2{padding-left:.5rem;padding-right:.5rem}.px-2\.5{padding-left:.625rem;padding-right:.625rem}.px-3{padding-left:.75rem;padding-right:.75rem}.px-4{padding-left:1rem;padding-right:1rem}.px-5{padding-left:1.25rem;padding-right:1.25rem}.px-px{padding-left:1px;padding-right:1px}.py-0\.5{padding-top:.125rem;padding-bottom:.125rem}.py-1{padding-top:.25rem;padding-bottom:.25rem}.py-1\.5{padding-top:.375rem;padding-bottom:.375rem}.py-10{padding-top:2.5rem;padding-bottom:2.5rem}.py-12{padding-top:3rem;padding-bottom:3rem}.py-2{padding-top:.5rem;padding-bottom:.5rem}.py-3{padding-top:.75rem;padding-bottom:.75rem}.py-4{padding-top:1rem;padding-bottom:1rem}.py-6{padding-top:1.5rem;padding-bottom:1.5rem}.pb-2{padding-bottom:.5rem}.pl-1\.5{padding-left:.375rem}.pl-2{padding-left:.5rem}.pl-5{padding-left:1.25rem}.pl-8{padding-left:2rem}.pr-1{padding-right:.25rem}.pr-8{padding-right:2rem}.pt-3{padding-top:.75rem}.pt-4{padding-top:1rem}.pt-5{padding-top:1.25rem}.text-left{text-align:left}.text-center{text-align:center}.text-right{text-align:right}.align-top{vertical-align:top}.text-3xl{font-size:1.875rem;line-height:2.25rem}.text-\[11px\]{font-size:11px}.text-base{font-size:1rem;line-height:1.5rem}.text-lg{font-size:1.125rem;line-height:1.75rem}.text-sm{font-size:.875rem;line-height:1.25rem}.text-xs{font-size:.75rem;line-height:1rem}.font-bold{font-weight:700}.font-medium{font-weight:500}.font-normal{font-weight:400}.font-semibold{font-weight:600}.tabular-nums{--tw-numeric-spacing:tabular-nums;font-variant-numeric:var(--tw-ordinal) var(--tw-slashed-zero) var(--tw-numeric-figure) var(--tw-numeric-spacing) var(--tw-numeric-fraction)}.text-accent{--tw-text-opacity:1;color:rgb(var(--accent)/var(--tw-text-opacity,1))}.text-accent-fg{--tw-text-opacity:1;color:rgb(var(--accent-fg)/var(--tw-text-opacity,1))}.text-fg{--tw-text-opacity:1;color:rgb(var(--fg)/var(--tw-text-opacity,1))}.text-muted{--tw-text-opacity:1;color:rgb(var(--muted)/var(--tw-text-opacity,1))}.text-neg{--tw-text-opacity:1;color:rgb(var(--neg)/var(--tw-text-opacity,1))}.text-pos{--tw-text-opacity:1;color:rgb(var(--pos)/var(--tw-text-opacity,1))}.text-warn{--tw-text-opacity:1;color:rgb(var(--warn)/var(--tw-text-opacity,1))}.text-white{--tw-text-opacity:1;color:rgb(255 255 255/var(--tw-text-opacity,1))}.underline{text-decoration-line:underline}.accent-\[rgb\(var\(--accent\)\)\]{accent-color:rgb(var(--accent))}.opacity-50{opacity:.5}.shadow-sm{--tw-shadow:0 1px 2px 0 rgba(0,0,0,.05);--tw-shadow-colored:0 1px 2px 0 var(--tw-shadow-color)}.shadow-sm,.shadow-xl{box-shadow:var(--tw-ring-offset-shadow,0 0 #0000),var(--tw-ring-shadow,0 0 #0000),var(--tw-shadow)}.shadow-xl{--tw-shadow:0 20px 25px -5px rgba(0,0,0,.1),0 8px 10px -6px rgba(0,0,0,.1);--tw-shadow-colored:0 20px 25px -5px var(--tw-shadow-color),0 8px 10px -6px var(--tw-shadow-color)}.outline-none{outline:2px solid transparent;outline-offset:2px}.outline{outline-style:solid}.ring-2{--tw-ring-offset-shadow:var(--tw-ring-inset) 0 0 0 var(--tw-ring-offset-width) var(--tw-ring-offset-color);--tw-ring-shadow:var(--tw-ring-inset) 0 0 0 calc(2px + var(--tw-ring-offset-width)) var(--tw-ring-color);box-shadow:var(--tw-ring-offset-shadow),var(--tw-ring-shadow),var(--tw-shadow,0 0 #0000)}.ring-accent\/30{--tw-ring-color:rgb(var(--accent)/0.3)}.filter{filter:var(--tw-blur) var(--tw-brightness) var(--tw-contrast) var(--tw-grayscale) var(--tw-hue-rotate) var(--tw-invert) var(--tw-saturate) var(--tw-sepia) var(--tw-drop-shadow)}.placeholder\:text-warn::-moz-placeholder{--tw-text-opacity:1;color:rgb(var(--warn)/var(--tw-text-opacity,1))}.placeholder\:text-warn::placeholder{--tw-text-opacity:1;color:rgb(var(--warn)/var(--tw-text-opacity,1))}.first\:border-t-0:first-child{border-top-width:0}.focus-within\:border-accent:focus-within{--tw-border-opacity:1;border-color:rgb(var(--accent)/var(--tw-border-opacity,1))}.hover\:bg-accent\/10:hover{background-color:rgb(var(--accent)/.1)}.hover\:bg-accent\/90:hover{background-color:rgb(var(--accent)/.9)}.hover\:bg-line:hover{--tw-bg-opacity:1;background-color:rgb(var(--line)/var(--tw-bg-opacity,1))}.hover\:bg-neg\/90:hover{background-color:rgb(var(--neg)/.9)}.hover\:bg-soft:hover{--tw-bg-opacity:1;background-color:rgb(var(--soft)/var(--tw-bg-opacity,1))}.hover\:bg-warn\/15:hover{background-color:rgb(var(--warn)/.15)}.hover\:text-accent:hover{--tw-text-opacity:1;color:rgb(var(--accent)/var(--tw-text-opacity,1))}.hover\:text-fg:hover{--tw-text-opacity:1;color:rgb(var(--fg)/var(--tw-text-opacity,1))}.hover\:text-neg:hover{--tw-text-opacity:1;color:rgb(var(--neg)/var(--tw-text-opacity,1))}.focus\:border-accent:focus{--tw-border-opacity:1;border-color:rgb(var(--accent)/var(--tw-border-opacity,1))}.focus\:bg-soft:focus{--tw-bg-opacity:1;background-color:rgb(var(--soft)/var(--tw-bg-opacity,1))}.focus\:text-fg:focus{--tw-text-opacity:1;color:rgb(var(--fg)/var(--tw-text-opacity,1))}.active\:cursor-grabbing:active{cursor:grabbing}.disabled\:border-line:disabled{--tw-border-opacity:1;border-color:rgb(var(--line)/var(--tw-border-opacity,1))}.disabled\:bg-transparent:disabled{background-color:transparent}.disabled\:text-muted:disabled{--tw-text-opacity:1;color:rgb(var(--muted)/var(--tw-text-opacity,1))}.disabled\:opacity-30:disabled{opacity:.3}.disabled\:opacity-50:disabled{opacity:.5}.group:hover .group-hover\:bg-accent{--tw-bg-opacity:1;background-color:rgb(var(--accent)/var(--tw-bg-opacity,1))}.group:focus-visible .group-focus-visible\:bg-accent{--tw-bg-opacity:1;background-color:rgb(var(--accent)/var(--tw-bg-opacity,1))}@media (min-width:640px){.sm\:col-span-1{grid-column:span 1/span 1}.sm\:w-72{width:18rem}.sm\:grid-cols-3{grid-template-columns:repeat(3,minmax(0,1fr))}.sm\:grid-cols-4{grid-template-columns:repeat(4,minmax(0,1fr))}}@media (min-width:768px){.md\:col-span-2{grid-column:span 2/span 2}.md\:grid-cols-2{grid-template-columns:repeat(2,minmax(0,1fr))}.md\:grid-cols-\[minmax\(0\2c 1fr\)_minmax\(0\2c 20rem\)\]{grid-template-columns:minmax(0,1fr) minmax(0,20rem)}}@media (min-width:1024px){.lg\:sticky{position:sticky}.lg\:top-6{top:1.5rem}.lg\:z-auto{z-index:auto}.lg\:my-6{margin-top:1.5rem;margin-bottom:1.5rem}.lg\:block{display:block}.lg\:hidden{display:none}.lg\:h-\[calc\(100dvh-3rem\)\]{height:calc(100dvh - 3rem)}.lg\:w-\[var\(--side-w\)\]{width:var(--side-w)}.lg\:max-w-\[var\(--group-max\)\]{max-width:var(--group-max)}.lg\:max-w-none{max-width:none}.lg\:shrink-0{flex-shrink:0}.lg\:grid-cols-6{grid-template-columns:repeat(6,minmax(0,1fr))}.lg\:grid-cols-\[minmax\(0\2c 16rem\)_minmax\(0\2c 1fr\)\]{grid-template-columns:minmax(0,16rem) minmax(0,1fr)}.lg\:overflow-hidden{overflow:hidden}.lg\:rounded-xl{border-radius:.75rem}.lg\:border{border-width:1px}.lg\:shadow-sm{--tw-shadow:0 1px 2px 0 rgba(0,0,0,.05);--tw-shadow-colored:0 1px 2px 0 var(--tw-shadow-color);box-shadow:var(--tw-ring-offset-shadow,0 0 #0000),var(--tw-ring-shadow,0 0 #0000),var(--tw-shadow)}}.\[\&\>td\]\:px-2>td{padding-left:.5rem;padding-right:.5rem}.\[\&\>td\]\:px-3>td{padding-left:.75rem;padding-right:.75rem}.\[\&\>td\]\:px-4>td{padding-left:1rem;padding-right:1rem}.\[\&\>td\]\:py-2>td{padding-top:.5rem;padding-bottom:.5rem}.\[\&\>td\]\:py-2\.5>td{padding-top:.625rem;padding-bottom:.625rem}.\[\&\>th\]\:px-2>th{padding-left:.5rem;padding-right:.5rem}.\[\&\>th\]\:px-3>th{padding-left:.75rem;padding-right:.75rem}.\[\&\>th\]\:py-2>th{padding-top:.5rem;padding-bottom:.5rem}.\[\&\>th\]\:font-medium>th{font-weight:500}

diff --git a/index.html b/index.html
@@ -768,7 +768,7 @@ function Summary({ t }) {
     </section>`;
 }
 
-function ProductCard({ p, settings, fee, onRename, onEdit, onAdd, onDelete, onSend, sendLabel, onCategory, onToggle, move }) {
+function ProductCard({ p, settings, fee, onRename, onEdit, onCopy, onAdd, onDelete, onSend, sendLabel, onCategory, onToggle, move }) {
   const t = calcTotals(rowsOfAll(p.options), settings);
   const open = !p.collapsed;
   return html`
@@ -794,7 +794,7 @@ function ProductCard({ p, settings, fee, onRename, onEdit, onAdd, onDelete, onSe
             <svg aria-hidden="true" viewBox="0 0 12 12" class=${'size-3 ' + (open ? 'rotate-90' : '')} fill="currentColor"><path d="M4 2l5 4-5 4z"/></svg>
           </button>
         </div>
-        <input aria-label="상품명" class="min-w-0 flex-1 basis-64 bg-transparent text-base font-semibold outline-none rounded px-1 -mx-1 hover:bg-soft focus:bg-soft"
+        <input aria-label="상품명" placeholder="상품명을 입력하세요" class="min-w-0 flex-1 basis-64 placeholder:text-warn bg-transparent text-base font-semibold outline-none rounded px-1 -mx-1 hover:bg-soft focus:bg-soft"
           value=${p.name} onChange=${(e) => onRename(e.target.value)} />
         <div class="flex items-center gap-2 text-sm">
           <label class="sr-only" for=${'cat-' + p.id}>카테고리</label>
@@ -845,7 +845,8 @@ function ProductCard({ p, settings, fee, onRename, onEdit, onAdd, onDelete, onSe
                   <td>${wonShort(cs.reduce((a, x) => a + x.adCost, 0))}</td>
                   <td class=${'font-semibold ' + tone(net)}>${net == null ? '–' : wonShort(net)}</td>
                   <td><button type="button" class="whitespace-nowrap rounded px-2 py-1 text-xs text-muted hover:bg-line hover:text-fg"
-                    onClick=${(e) => { e.stopPropagation(); onEdit(o.id); }}>편집</button></td>
+                    onClick=${(e) => { e.stopPropagation(); onEdit(o.id); }}>편집</button><button type="button" aria-label=${(o.option || '규격') + ' 복사해서 추가'}
+                    class="whitespace-nowrap rounded px-2 py-1 text-xs text-muted hover:bg-line hover:text-fg" onClick=${(e) => { e.stopPropagation(); onCopy(o.id); }}>복사</button></td>
                 </tr>`;
             })}
           </tbody>
@@ -1545,7 +1546,13 @@ function App() {
     document.addEventListener('keydown', onKey);
     return () => document.removeEventListener('keydown', onKey);
   }, [sideOpen]);
-  const [editing, setEditing] = useState(null); // {pid, oid}
+  const [editing, setEditing] = useState(null); // {pid, oid, focus}
+  // 편집 창이 열리면 새 상품은 상품명, 새 규격·복사한 규격은 규격 칸에 커서를 두고 전체 선택
+  useEffect(() => {
+    if (!editing?.focus) return;
+    const t = setTimeout(() => { const el = document.getElementById(editing.focus === 'name' ? 'edit-pname' : 'edit-option'); if (el) { el.focus(); el.select(); } }, 60);
+    return () => clearTimeout(t);
+  }, [editing?.oid, editing?.focus]);
   const [confirm, setConfirm] = useState(null);
   const [notice, setNotice] = useState(null); // {kind, text}
   const [quick, setQuick] = useState(() => emptyOption({ option: '1kg', cost: 8000, targetPay: 14900, instantCoupon: 2000, targetDiscount: 0.55 }));
@@ -1659,14 +1666,27 @@ function App() {
 
   const addProduct = (seed) => {
     const o = emptyOption(seed ? { ...seed, id: uid() } : {});
-    const p = { id: uid(), channel, name: '새 상품', options: [o] };
+    const p = { id: uid(), channel, name: '', options: [o] };
     update((d) => ({ ...d, products: [...d.products, p] }));
-    setTab('list'); setEditing({ pid: p.id, oid: o.id });
+    setTab('list'); setEditing({ pid: p.id, oid: o.id, focus: 'name' });
   };
   const addOption = (pid) => {
     const o = emptyOption();
     setProduct(pid, (p) => ({ ...p, options: [...p.options, o] }));
-    setEditing({ pid, oid: o.id });
+    setEditing({ pid, oid: o.id, focus: 'option' });
+  };
+  // 규격 복사: 원가·판매가·쿠폰·산지 등 입력값은 그대로, 쿠팡 옵션 ID·판매 실적·가격 변동 기록은 비우고 원본 바로 아래에 넣는다
+  const copyOption = (pid, oid) => {
+    const id = uid();
+    setProduct(pid, (p) => {
+      const i = p.options.findIndex((o) => o.id === oid);
+      if (i < 0) return p;
+      const src = p.options[i];
+      const copy = { ...src, id, option: src.option ? `${src.option} 복사` : '', optionId: '', priceHistory: [], priceFrom: '', priceMemo: '',
+        periodFrom: '', periodTo: '', ...Object.fromEntries(SALES_FIELDS.map((k) => [k, ''])) };
+      return { ...p, options: [...p.options.slice(0, i + 1), copy, ...p.options.slice(i + 1)] };
+    });
+    setEditing({ pid, oid: id, focus: 'option' });
   };
 
   const onImportFile = async (e) => {
@@ -1871,7 +1891,7 @@ function App() {
                   }}
                   onCategory=${(patch) => setProduct(p.id, (x) => ({ ...x, ...patch }))} sendLabel=${otherTo + ' 보내기'} onSend=${() => sendProduct(p)}
                   onRename=${(name) => setProduct(p.id, (x) => ({ ...x, name }))}
-                  onEdit=${(oid) => setEditing({ pid: p.id, oid })}
+                  onEdit=${(oid) => setEditing({ pid: p.id, oid })} onCopy=${(oid) => copyOption(p.id, oid)}
                   onAdd=${() => addOption(p.id)}
                   onDelete=${() => setConfirm({ title: `"${p.name}" 상품을 삭제할까요?`, body: `규격 ${p.options.length}개와 입력한 판매·비용 값이 함께 지워집니다.`, action: '삭제',
                     onConfirm: () => update((d) => ({ ...d, products: d.products.filter((x) => x.id !== p.id) })) })} />`)
@@ -1940,11 +1960,15 @@ function App() {
           <div class="flex flex-col">
             <div class="sticky top-0 z-header flex flex-wrap items-end gap-3 border-b border-line bg-surface px-5 py-4">
               <div class="flex min-w-0 flex-1 flex-col gap-1">
-                <h2 id="edit-title" class="truncate text-xs font-medium text-muted">${ed.name}</h2>
-                <input aria-label="규격 / 옵션" placeholder="예: 3kg" value=${edOpt.option}
+                <h2 id="edit-title" class="sr-only">상품과 규격 편집</h2>
+                <input id="edit-pname" aria-label="상품명" placeholder="상품명을 입력하세요 (예: [단독특가] 꿀당도 감홍사과)" value=${ed.name}
+                  class="w-full min-w-0 rounded bg-transparent px-1 -mx-1 text-sm font-medium text-muted outline-none placeholder:text-warn hover:bg-soft focus:bg-soft focus:text-fg"
+                  onChange=${(e) => setProduct(ed.id, (x) => ({ ...x, name: e.target.value }))} />
+                <input id="edit-option" aria-label="규격 / 옵션" placeholder="규격 (예: 3kg)" value=${edOpt.option}
                   class="w-full min-w-0 rounded bg-transparent px-1 -mx-1 text-lg font-semibold outline-none hover:bg-soft focus:bg-soft"
                   onChange=${(e) => setOption(ed.id, edOpt.id, { option: e.target.value })} />
               </div>
+              <button type="button" class="rounded-md border border-line px-3 py-2 text-sm hover:bg-soft" onClick=${() => copyOption(ed.id, edOpt.id)}>이 규격 복사</button>
               <button type="button" class="rounded-md px-3 py-2 text-sm text-muted hover:bg-soft hover:text-neg"
                 onClick=${() => setConfirm({ title: `"${edOpt.option || '규격'}" 규격을 삭제할까요?`, body: '이 규격의 가격·판매·비용 입력값이 지워집니다.', action: '삭제',
                   onConfirm: () => { setProduct(ed.id, (p) => ({ ...p, options: p.options.filter((o) => o.id !== edOpt.id) })); setEditing(null); } })}>규격 삭제</button>

diff --git a/README.md b/README.md
@@ -45,6 +45,8 @@
 
 ![규격 편집](docs/screenshots/02-edit.png)
 
+- 헤더의 **상품 추가**를 누르면 이 창이 열리고 맨 위 **상품명** 칸에 바로 입력할 수 있습니다(Tab으로 규격 칸 이동). 상품명은 이 창이나 상품 카드 제목에서 언제든 고칩니다.
+- **이 규격 복사**(또는 상품 표 행의 **복사**)를 누르면 원가·판매가·쿠폰·산지 등 입력값을 그대로 가진 규격이 바로 아래에 생기고 규격 칸에 커서가 갑니다. 쿠팡 옵션 ID, 판매·광고 실적, 가격 변동 기록은 복사하지 않습니다.
 - 표에서 규격 행을 누르면 열립니다. 왼쪽에 입력하면 오른쪽 쿠팡 등록 가격과 수익이 바로 바뀝니다.
 - **가격 설정** 맨 위에 **산지 이름**과 **산지 판매 상품명**을 메모로 적어 둘 수 있습니다. 매입원가가 어느 산지의 어떤 상품 가격인지 남겨 두는 용도로, 계산에는 영향이 없습니다. 상품 표의 규격 아래에도 표시되고 엑셀 내보내기·불러오기에 함께 들어갑니다.
 - 가격 정하기 패널에서 가격을 정해 두면 목표 최종 결제금액 아래에 **가격 정하기 결과 넣기** 버튼이 생깁니다. 누르면 그 가격이 바로 들어가고, 이미 같은 가격이면 "적용됨"으로 표시됩니다.
